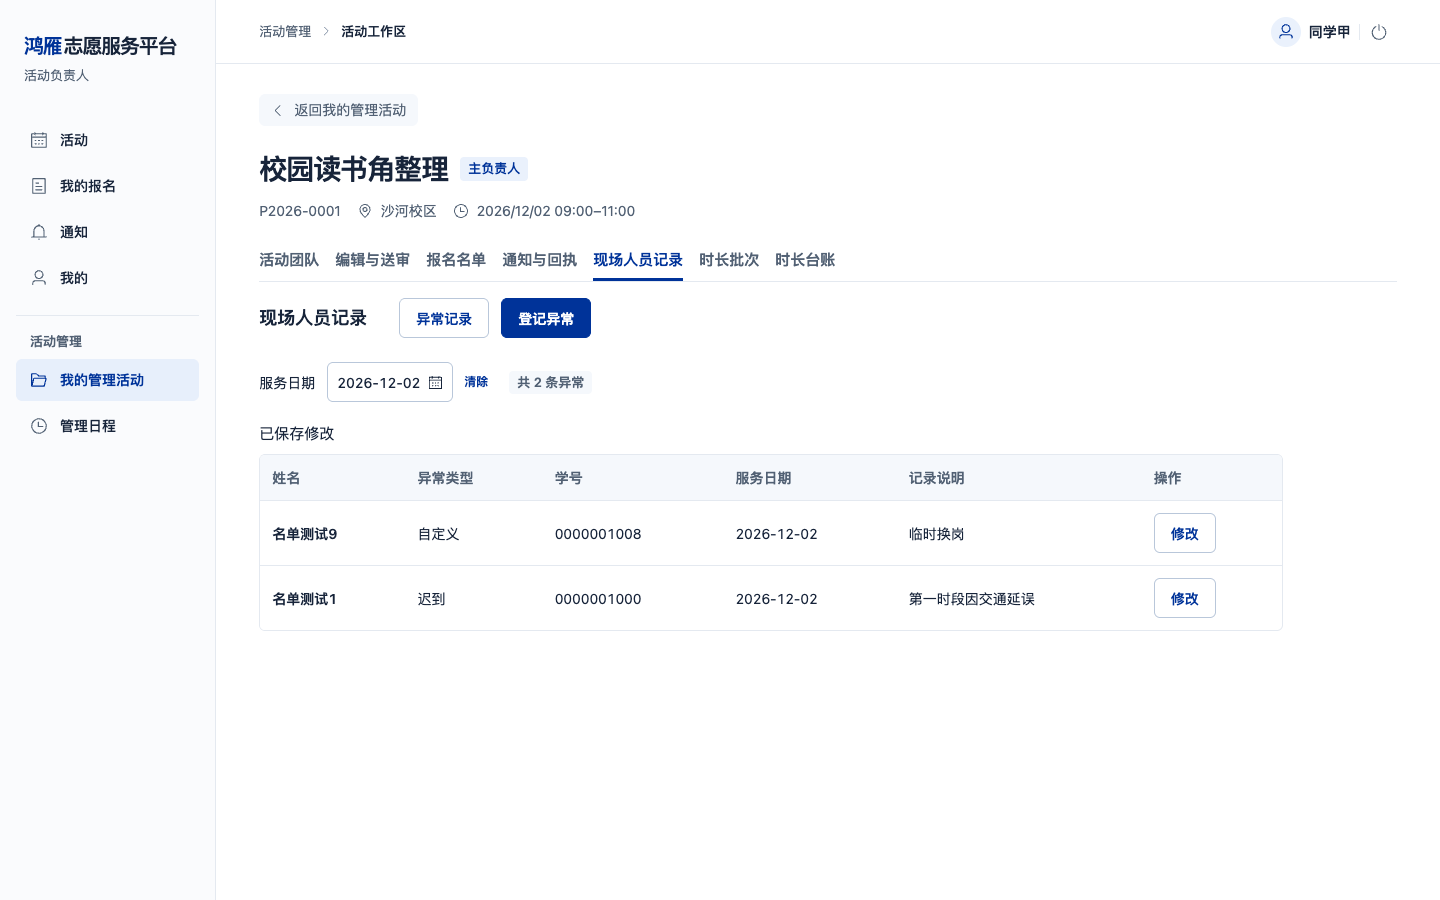
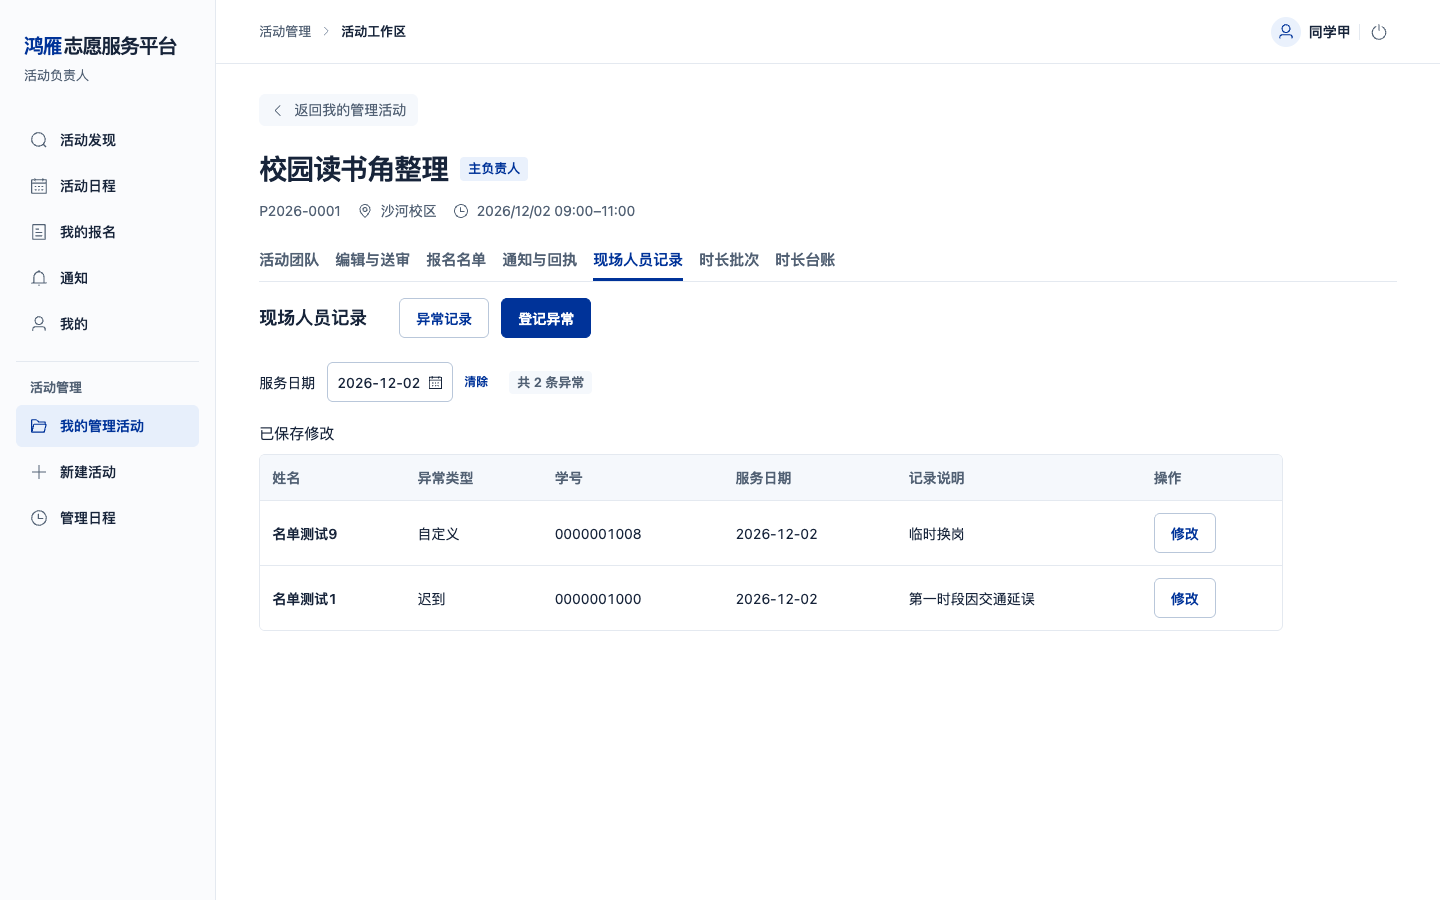
让三端日程定位到可见活动，调整学生和负责人导航

diff --git a/apps/web/src/activities/ManagedActivities.vue b/apps/web/src/activities/ManagedActivities.vue
@@ -1,13 +1,12 @@
 <script setup lang="ts">
 import { computed } from 'vue';
-import { listManagedActivities, type Profile } from '@hongyan/contracts';
+import { listManagedActivities } from '@hongyan/contracts';
 import { useRoute, useRouter } from 'vue-router';
 import UiIcon from '@hongyan/ui/UiIcon.vue';
 import { statusLabels, serviceTime } from '@hongyan/ui/activityDisplay';
 import { pageNumber, usePageRead } from '@hongyan/ui/usePageRead';
 import Pager from '@hongyan/ui/Pager.vue';
 
-defineProps<{ profile: Profile }>();
 const route = useRoute(), router = useRouter();
 const page = computed(() => pageNumber(route.query.page));
 const sourceQuery = computed(() => ({ page: page.value > 1 ? page.value : undefined }));
@@ -19,14 +18,6 @@ const { data, loading, error, refresh: load } = usePageRead(page, async signal =
   <div class="reading-area">
     <div class="page-heading">
       <h1>我的管理活动</h1>
-      <div class="page-actions">
-        <RouterLink class="button" to="/managed-schedule"
-          ><UiIcon name="Calendar" />本人管理日程</RouterLink
-        >
-        <RouterLink class="button primary" to="/managed/new"
-          ><UiIcon name="Plus" />新建单次活动</RouterLink
-        >
-      </div>
     </div>
     <p v-if="loading" class="notice" role="status">正在读取活动…</p>
     <p v-else-if="error" role="alert">{{ error }} <button @click="load()">刷新</button></p>
@@ -39,7 +30,9 @@ const { data, loading, error, refresh: load } = usePageRead(page, async signal =
         <div class="managed-info">
           <div class="meta-line">{{ a.activity_code }}</div>
           <div class="page-title">
-            <strong class="row-title">{{ a.title }}</strong>
+            <RouterLink class="row-title" :to="{ path: '/managed/' + a.id, query: sourceQuery }">
+              {{ a.title }}<UiIcon name="ArrowRight" />
+            </RouterLink>
             <span class="state-chip" :class="{ attention: a.has_pending_review }">{{
               a.has_pending_review ? '待审核' : statusLabels[a.status]
             }}</span>
@@ -53,10 +46,9 @@ const { data, loading, error, refresh: load } = usePageRead(page, async signal =
           </div>
         </div>
         <div class="page-actions">
-          <RouterLink class="button compact" :to="{ path: '/managed/' + a.id, query: sourceQuery }" :aria-label="a.title + '的活动团队'">活动团队</RouterLink>
-          <RouterLink class="button" :to="{ path: '/managed/' + a.id + '/edit', query: sourceQuery }"
-            ><UiIcon name="EditPen" />编辑与送审</RouterLink
-          >
+          <RouterLink class="button" :to="{ path: '/managed/' + a.id + '/attendance', query: sourceQuery }">
+            <UiIcon name="DocumentChecked" />现场人员记录
+          </RouterLink>
           <RouterLink
             class="button"
             :to="{ path: '/managed/' + a.id + '/roster', query: sourceQuery }"
@@ -98,8 +90,15 @@ const { data, loading, error, refresh: load } = usePageRead(page, async signal =
 .row-title {
   color: var(--ink);
   font-size: 18px;
-  font-weight: 650;
+  display: inline-flex;
+  align-items: center;
+  gap: var(--space-4);
+  min-height: var(--compact-height);
+  font-weight: var(--weight-heading);
   text-decoration: none;
   overflow-wrap: anywhere;
 }
+.row-title:hover { color: var(--brand); background: var(--brand-tint); }
+.row-title .ui-icon { width: 14px; }
+@media (max-width: 700px), (pointer: coarse) { .row-title { min-height: 44px; } }
 </style>

diff --git a/apps/web/src/App.vue b/apps/web/src/App.vue
@@ -1,5 +1,5 @@
 <script setup lang="ts">
-import { studentNav, managedNav } from './router';
+import { router, studentNav, managedNav } from './router';
 import { computed } from 'vue';
 import { useRoute } from 'vue-router';
 import type { Profile } from '@hongyan/contracts';
@@ -13,6 +13,12 @@ import UiIcon from '@hongyan/ui/UiIcon.vue';
 const route = useRoute();
 const canManage = (profile: Profile) => profile.roles.includes('organizer');
 const isCurrent = (to: string) => route.meta.nav === to;
+const publicNav = studentNav.filter(item => !router.resolve(item.to).meta.personal);
+function studentDestination(to: string) {
+  if (to !== '/schedule' || route.path !== '/') return to;
+  const { q, campus, phase, status, ongoing, date, unit } = route.query;
+  return { path: to, query: { q, campus, phase, status, ongoing, date, unit: date ? unit || 'hour' : undefined } };
+}
 const crumb = computed(() => route.meta.title);
 </script>
 <template>
@@ -28,9 +34,9 @@ const crumb = computed(() => route.meta.title);
         <BrandName :area="canManage(profile) ? '活动负责人' : '学生端'" />
         <nav class="rail-nav" aria-label="学生导航">
           <RouterLink
-            v-for="item in hasStudentAccess(profile) ? studentNav : studentNav.slice(0, 1)"
+            v-for="item in hasStudentAccess(profile) ? studentNav : publicNav"
             :key="item.to"
-            :to="item.to"
+            :to="studentDestination(item.to)"
             :aria-label="item.label"
             :aria-describedby="item.to === '/notices' ? 'notice-attention-description' : undefined"
             :class="{ current: isCurrent(item.to) }"
@@ -76,6 +82,12 @@ const crumb = computed(() => route.meta.title);
           <AccountIdentity :name="profile.display_name" :busy="busy" @logout="logout" />
         </header>
         <main class="shell-content">
+          <nav v-if="canManage(profile) && $route.meta.organizer" class="section-nav mobile-managed-nav" aria-label="管理页面">
+            <RouterLink v-for="item in managedNav" :key="item.to" :to="item.to"
+              :class="{ current: isCurrent(item.to) }" :aria-current="isCurrent(item.to) ? 'page' : undefined">
+              {{ item.label }}
+            </RouterLink>
+          </nav>
           <p v-if="$route.meta.organizer && !canManage(profile)" role="alert">
             当前账号无活动管理权限
           </p>
@@ -110,10 +122,12 @@ const crumb = computed(() => route.meta.title);
   font-weight: 550;
   color: var(--muted);
 }
+.mobile-managed-nav,
 .rail-nav .mobile-management {
   display: none;
 }
 @media (max-width: 700px) {
+  .mobile-managed-nav { display: flex; margin-top: 0; }
   .web-rail {
     position: fixed;
     z-index: 5;

diff --git a/apps/web/src/router.ts b/apps/web/src/router.ts
@@ -14,22 +14,24 @@ import ActivityNotices from './notices/ActivityNotices.vue';
 import MyNotices from './notices/MyNotices.vue';
 import SchedulePage from '@hongyan/ui/SchedulePage.vue';
 export const studentNav = [
-  { to: '/', label: '活动', icon: 'Calendar' },
+  { to: '/', label: '活动发现', icon: 'Search' },
+  { to: '/schedule', label: '活动日程', icon: 'Calendar' },
   { to: '/registrations', label: '我的报名', icon: 'Tickets' },
   { to: '/notices', label: '通知', icon: 'Bell' },
   { to: '/mine', label: '我的', icon: 'User' },
 ] as const;
 export const managedNav = [
   { to: '/managed', label: '我的管理活动', icon: 'FolderOpened' },
+  { to: '/managed/new', label: '新建活动', icon: 'Plus' },
   { to: '/managed-schedule', label: '管理日程', icon: 'Clock' },
 ] as const;
 export const router = createRouter({
   history: createWebHistory(),
   routes: [
-    { path: '/', component: PublicActivities, meta: {title: '活动', nav: '/',  profile: true } },
+    { path: '/', component: PublicActivities, meta: {title: '活动发现', nav: '/',  profile: true } },
     { path: '/activities/:id', component: PublicActivities, meta: {title: '活动详情', nav: '/',  profile: true } },
-    { path: '/managed', component: ManagedActivities, meta: {title: '我的管理活动', nav: '/managed',  organizer: true, profile: true } },
-    { path: '/managed/new', component: ActivityEditor, meta: {title: '新建活动', nav: '/managed',  organizer: true } },
+    { path: '/managed', component: ManagedActivities, meta: {title: '我的管理活动', nav: '/managed',  organizer: true } },
+    { path: '/managed/new', component: ActivityEditor, meta: {title: '新建活动', nav: '/managed/new',  organizer: true } },
     {
       path: '/managed/:id',
       name: 'managed-overview',
@@ -59,13 +61,13 @@ export const router = createRouter({
       path: '/schedule',
       component: SchedulePage,
       props: { scope: 'public' },
-      meta: {title: '活动日程', nav: '/',  studentSchedule: true },
+      meta: {title: '活动日程', nav: '/schedule',  studentSchedule: true },
     },
     {
       path: '/mine/schedule',
       component: SchedulePage,
       props: { scope: 'mine' },
-      meta: {title: '活动日程', nav: '/mine',  personal: true, studentSchedule: true },
+      meta: {title: '活动日程', nav: '/schedule',  personal: true, studentSchedule: true },
     },
     {
       path: '/managed-schedule',

diff --git a/apps/api/src/activities/list.ts b/apps/api/src/activities/list.ts
@@ -9,16 +9,32 @@ import { cachedSlots, slots } from './schedule.js';
 
 type Query = Record<string, string>;
 type Scope = 'public' | 'working' | 'published';
-type ListOptions = { studentId?: string; showOwnerAvailability?: boolean; range: ActivityWindow | undefined; expand?: typeof slots };
+type ListOptions = {
+  studentId?: string;
+  showOwnerAvailability?: boolean;
+  range: ActivityWindow | undefined;
+  expand?: typeof slots;
+  outsideWindow?: (start: number, end: number) => void;
+};
 
-function contentFilter(q: Query, range: ActivityWindow | undefined, expand: typeof slots) {
+function contentFilter(
+  q: Query,
+  range: ActivityWindow | undefined,
+  expand: typeof slots,
+  outsideWindow: ListOptions['outsideWindow'],
+) {
   return (a: View) =>
     (!q.q || [a.title, a.activity_code].some((v) => v.includes(q.q))) &&
     (!q.campus || matchesCampus(a.campus, q.campus)) &&
     (!q.registration_phase || a.registration_phase === q.registration_phase) &&
     (!q.is_ongoing || a.is_ongoing === (q.is_ongoing === 'true')) &&
     (!range ||
-      expand(a.schedule).some((s) => Date.parse(s.starts_at) < range.to && Date.parse(s.ends_at) > range.from));
+      expand(a.schedule).some(slot => {
+        const start = Date.parse(slot.starts_at), end = Date.parse(slot.ends_at);
+        if (start < range.to && end > range.from) return true;
+        outsideWindow?.(start, end);
+        return false;
+      }));
 }
 
 /**
@@ -30,11 +46,11 @@ export async function activityViews(
   where: Prisma.ActivityWhereInput,
   scope: Scope,
   q: Query,
-  { studentId, showOwnerAvailability = false, range, expand = cachedSlots() }: ListOptions,
+  { studentId, showOwnerAvailability = false, range, expand = cachedSlots(), outsideWindow }: ListOptions,
   onMatch?: (view: View) => void,
 ) {
   const { page, page_size, skip } = pagination(q);
-  const matches = contentFilter(q, range, expand);
+  const matches = contentFilter(q, range, expand, outsideWindow);
   const derived = !!(
     q.q ||
     q.campus ||

diff --git a/packages/ui/src/timeline/SchedulePage.vue b/packages/ui/src/timeline/SchedulePage.vue
@@ -55,6 +55,7 @@ const chart = computed(() => (route.query.view || (mobile.value ? 'list' : 'char
 const date = computed(() =>
   validDate(route.query.date) ? route.query.date : localDate(Date.now()),
 );
+const locateOnEntry = computed(() => Object.keys(route.query).every(key => key === 'unit' || key === 'view'));
 const range = computed(() => dateWindow(date.value, unit.value));
 const start = computed(() => range.value.start),
   end = computed(() => range.value.end);
@@ -201,6 +202,11 @@ async function load(mode: LoadMode) {
       }
       return;
     }
+    const suggested = pages.value[0]?.suggested_date;
+    if (mode === 'initial' && suggested && locateOnEntry.value) {
+      await router.replace({ query: { ...route.query, date: suggested } });
+      return;
+    }
     applySelection();
     if (pendingRefresh) {
       pendingRefresh = false;
@@ -270,7 +276,7 @@ function resized() {
   mobile.value = media.matches;
 }
 watch(
-  [() => JSON.stringify(query.value), () => props.scope, revision],
+  [() => JSON.stringify(query.value), () => props.scope, revision, locateOnEntry],
   ([, scope, version], [, previousScope, previousVersion]) => {
     selectionMessage.value = '';
     if (previousScope && (scope !== previousScope || version !== previousVersion) && route.query.item)
@@ -484,6 +490,9 @@ onUnmounted(() => {
       <div v-if="!rows.length" class="empty-state">
         <UiIcon name="Calendar" />
         <p>该窗口和筛选条件下没有活动</p>
+        <button v-if="lastPage?.suggested_date" @click="set('date', lastPage.suggested_date)">
+          查看 {{ lastPage.suggested_date }} 的活动
+        </button>
       </div>
       <div
         v-else

diff --git a/apps/api/src/timeline/timeline.ts b/apps/api/src/timeline/timeline.ts
@@ -1,4 +1,5 @@
 import { parseActivityFilters, publishedActivityFilter } from '../activities/filters.js';
+import { localDate } from '@hongyan/contracts/activity';
 import { createHash } from 'node:crypto';
 import type {
   Activity,
@@ -174,7 +175,12 @@ export async function timelinePage(
 
   // 日程本就需要扫描全部匹配项以计数。只对当前身份可见的日程字段取摘要，排除请求时刻。
   const digest = createHash('sha256');
-  const views = await activityViews(db, where, management ? revision : 'public', q, { studentId, range, expand }, (a) => {
+  let nextStart = Infinity, lastEnd = -Infinity;
+  function outsideWindow(start: number, end: number) {
+    if (start >= to) nextStart = Math.min(nextStart, start);
+    if (end <= from) lastEnd = Math.max(lastEnd, end);
+  }
+  const views = await activityViews(db, where, management ? revision : 'public', q, { studentId, range, expand, outsideWindow }, (a) => {
     digest.update(JSON.stringify([
       a.id, a.activity_code, a.title, a.status, a.schedule_revision, a.revision_state, a.schedule,
       a.campus, a.location, a.capacity, a.registration_closes_at, a.registration_phase, a.is_ongoing,
@@ -189,7 +195,9 @@ export async function timelinePage(
   const items = views.items
     .map((view) => toActivity(view, views.now, from, to, management, expand, plan))
     .filter((item): item is TimelineActivity => item !== null);
+  const suggestedTime = Number.isFinite(nextStart) ? nextStart : lastEnd - 1;
   const page = {
+    ...(views.total === 0 && Number.isFinite(suggestedTime) && { suggested_date: localDate(suggestedTime) }),
     items,
     total: views.total,
     page: views.page,

diff --git a/apps/web/src/activities/PublicActivities.vue b/apps/web/src/activities/PublicActivities.vue
@@ -77,11 +77,6 @@ const listQuery = computed(() => ({
   detail: undefined,
   view: undefined,
 }));
-const scheduleQuery = computed(() => ({
-  ...listQuery.value,
-  page: undefined,
-  unit: selectedDay.value ? (validUnit(route.query.unit) ? unit.value : 'hour') : undefined,
-}));
 let serial = 0;
 let scrollPosition = 0;
 const rememberScroll = () => {
@@ -200,13 +195,6 @@ const inputValue = (e: Event) => (e.target as HTMLInputElement).value;
   <template v-else>
     <header class="page-heading discover-heading">
       <h1>活动发现</h1>
-      <RouterLink
-        class="button"
-        aria-label="活动日程"
-        :to="{ path: '/schedule', query: scheduleQuery }"
-      >
-        <UiIcon name="Calendar" />活动日程<small>按时间</small>
-      </RouterLink>
     </header>
     <div class="discovery">
       <section class="results" aria-label="公开活动">
@@ -377,12 +365,6 @@ const inputValue = (e: Event) => (e.target as HTMLInputElement).value;
 .discover-heading {
   border-bottom: 1px solid var(--line);
   padding-bottom: 20px;
-}
-.discover-heading .button small {
-  font-size: 12px;
-  color: var(--muted);
-  border-left: 1px solid var(--line);
-  padding-left: 8px;
 }
 .discovery {
   display: grid;

diff --git a/README.md b/README.md
@@ -2,8 +2,8 @@
 
 | 角色 | 常用入口 |
 | --- | --- |
-| 学生 | 在「活动」查看日程、报名，在「我的报名」查结果、办理退出与恢复。在「通知」确认回执，在「我的」查时长、提交漏记或错账反馈，或进入「账号管理」改密。 |
-| 活动负责人 | 从「我的管理活动」编辑活动并送审，在报名名单跨页选择最多 100 条记录统一作出决定，审批退出与恢复。按服务日期登记现场异常，向指定名单发布通知并跟进回执，在「时长批次」导入工作簿、核对预览、修正重传或送审。主负责人还可在活动团队维护成员、办理交接。 |
+| 学生 | 在「活动发现」浏览和报名，在「活动日程」查看服务时段，在「我的报名」查结果、办理退出与恢复。在「通知」确认回执，在「我的」查时长、提交漏记或错账反馈，或进入「账号管理」改密。 |
+| 活动负责人 | 从「新建活动」创建草稿，进入活动工作区编辑并送审，在报名名单跨页选择最多 100 条记录统一作出决定，审批退出与恢复。按服务日期登记现场异常，向指定名单发布通知并跟进回执，在「时长批次」导入工作簿、核对预览、修正重传或送审。主负责人还可在活动团队维护成员、办理交接。 |
 | 审核员 | 审批活动、修订和时长批次，处理错账修复及申诉。从「学生档案 → 导入学生名单建档」批量建档，在「学生档案」查人，在「账号与角色」办理普通学生的负责人授权和凭证重置，在「活动团队」维护成员和接管活动。支持按授权范围导出记录、查询审计。 |
 | 技术管理员 | 在「账号与角色」按角色、状态查找账号，创建后台账号、调整高权限角色，办理启停和凭证重置。 |
 

diff --git a/DESIGN.md b/DESIGN.md
@@ -29,8 +29,8 @@
 
 | 角色 | 入口与权限 |
 | --- | --- |
-| 学生 | 一级入口依次为「活动、我的报名、通知、我的」。宽度大于 700px 时用侧栏，700px 及以下用底栏。个人入口要求账号关联学生档案且具有学生或负责人角色。 |
-| 活动负责人 | 桌面在学生导航下以细线分组，显示「我的管理活动、管理日程」，新建活动位于管理列表标题区，手机底栏追加「管理」。未关联学生档案的负责人仍可进入管理区。编辑、名单、成员操作归入当前活动，持续显示活动名与成员身份。 |
+| 学生 | 一级入口依次为「活动发现、活动日程、我的报名、通知、我的」。宽度大于 700px 时用侧栏，700px 及以下用底栏。个人入口要求账号关联学生档案且具有学生或负责人角色。 |
+| 活动负责人 | 桌面在学生导航下以细线分组，依次显示「我的管理活动、新建活动、管理日程」。手机从底栏「管理」进入同一组页面。管理列表的活动名称打开活动团队，行操作可进入现场人员记录和报名名单。未关联学生档案的负责人仍可进入管理区。编辑、名单、成员操作归入当前活动，持续显示活动名与成员身份。 |
 | 审核员 | 使用独立后台导航，从待办进入具体对象。「账号与角色」办理学生授权，「活动团队」维护活动成员和负责人。审核队列使用一级标题，状态筛选在窄屏换行。 |
 | 技术管理员 | 从后台「账号与角色」按角色和启停状态浏览账号，进入详情办理高权限授权，也可创建独立后台账号。 |
 

diff --git a/docs/timeline.md b/docs/timeline.md
@@ -1,6 +1,6 @@
 # 活动日程
 
-学生从「活动日程」查找服务时段，负责人从「管理日程」进入自己管理的活动，审核员从「全院日程」进入待审修订。列表和时间轴共用一次查询，日程上只选段和跳转，改期在活动编辑页办理，审批在审核页办理。
+学生从与「活动发现」并列的「活动日程」查找服务时段，负责人从「管理日程」进入自己管理的活动，审核员从「全院日程」进入待审修订。列表和时间轴共用一次查询，日程上只选段和跳转，改期在活动编辑页办理，审批在审核页办理。
 
 ## 谁能看到哪些安排
 
@@ -18,6 +18,8 @@
 ## 时间窗口与分段
 
 小时、日、周、月刻度都查询带时区的半开窗口 `[from, to)`，最长 31 日。按北京时间展开每周规则，排除日移除当日全部例行时段，补充时段单独计入。时段开始早于窗口结束、结束晚于窗口开始即相交，返回完整起止时刻。例如前晚 23:00 至当日 02:00 的服务在两天都能选中。[时间窗口](../packages/ui/src/timeline/window.ts) · [甘特图交互](../DESIGN.md#甘特图交互)
+
+首次进入先查当前窗口。若当前窗口为空，日程按同一权限、版本和筛选定位到下一场服务，只有过去活动时定位到最后一个服务日。指定日期、筛选及「今天」保留所选窗口，空状态可直接跳到接口提供的有活动日期。
 
 ## 分页与刷新
 
